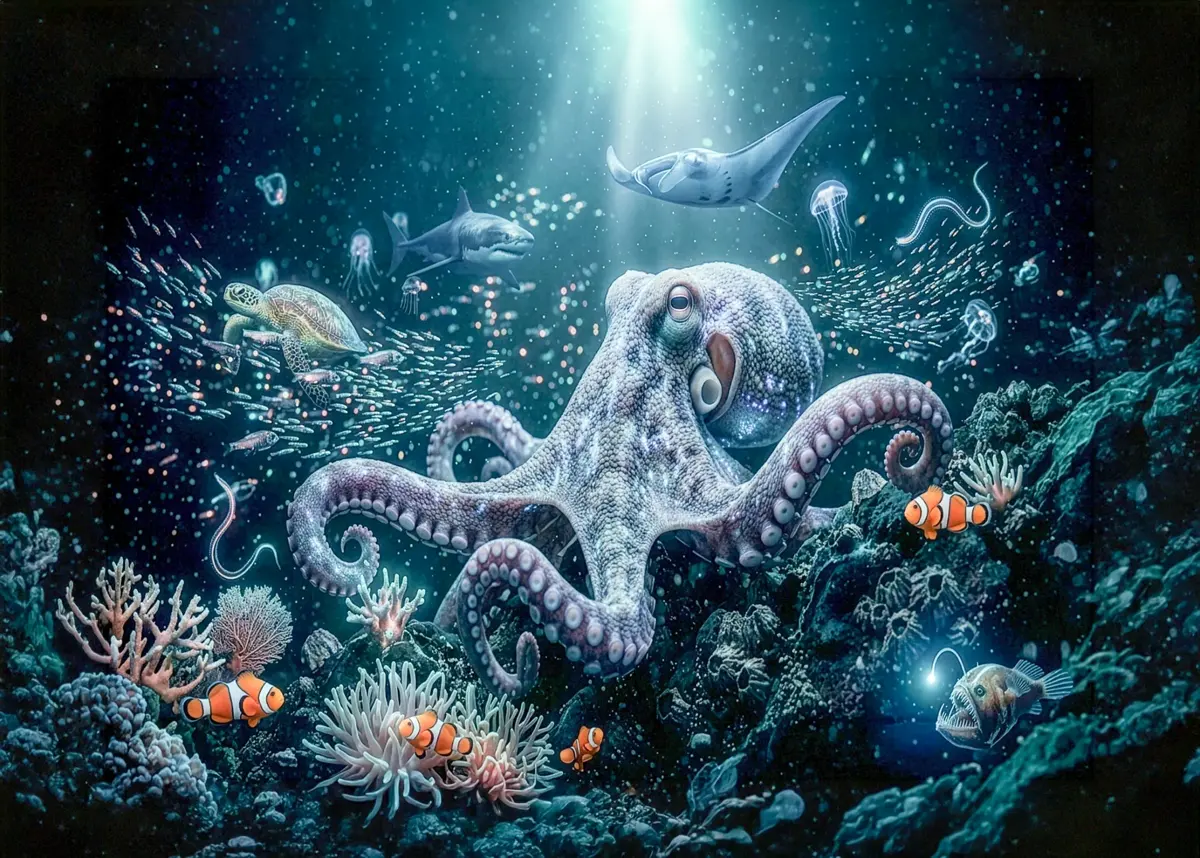
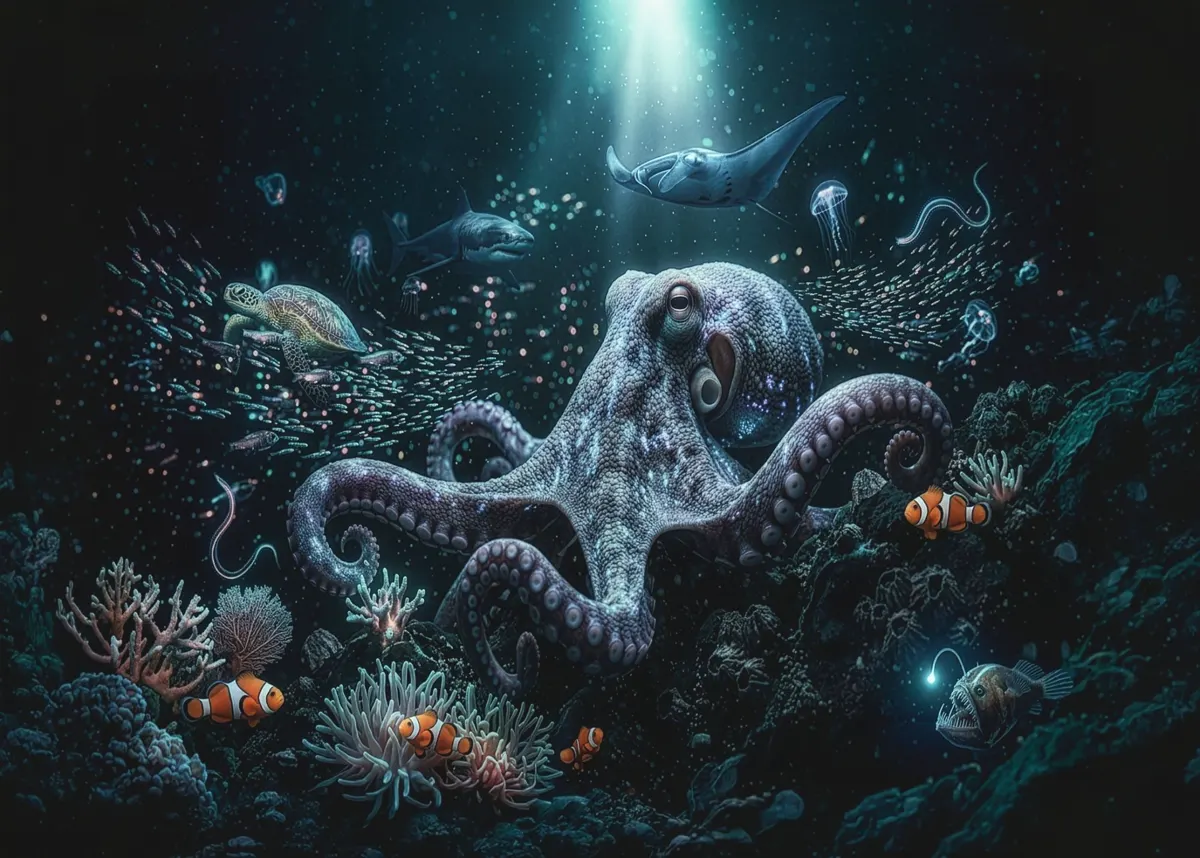
Meg's grade on the reef, and the red octopus gets a band
Two calls Meg made, both hers to make.

**The reef map takes the moodier render.** She sent the same scene at
three brightnesses; what shipped was the brightest at mean luma 75, and
she chose the graded one at 47. I had argued for the bright one on
legibility, since this is the picture four pins point at and darkness eats
the anemones and the anglerfish first. On the built page that concern does
not materialise: the clownfish, the anemone cluster and the angler are all
still clearly readable at this grade, and the picture is better. Her eye,
and it was right.

It is a drop-in. The two renders are pixel aligned, so all four pins were
re-checked against the new file and every one still lands on its creature
with no co-ordinate changed. That was verified rather than assumed, by
overlaying the four positions on the new grade before swapping it in.

**The red octopus gets its own band on /marketplace**, which is the one
picture on this site that is deliberately off-palette. The accents here
are violet, teal and pink, and this render is red and green; that is
exactly why it sat unused. It works on this page because there is no ocean
art on it at all and no teal accent anywhere near the band, so the picture
is its own moment rather than a clash with something beside it. Checked in
both themes: on Harbor it melts into the page, on Daylight the cp-night
island reads it as a framed photograph on cream.

Uncaptioned, which is CastFrame's rule rather than a shortcut: a caption
[…]

diff --git a/app/marketplace/page.tsx b/app/marketplace/page.tsx
@@ -8,6 +8,7 @@ import MarketCatalog from "@/components/MarketCatalog";
 import WorkflowMap from "@/components/WorkflowMap";
 import LinxMark from "@/components/LinxMark";
 import StackedHeading from "@/components/StackedHeading";
+import CastFrame from "@/components/ocean/CastFrame";
 import { marketItems, welcomeBook } from "@/lib/content";
 
 /*
@@ -105,6 +106,38 @@ export default function MarketplacePage() {
                 hosted tool to the site you already have. I set it up either
                 way, so there is nothing for you to wire together.
               </p>
+            </div>
+          </section>
+
+          {/*
+            **A band of Meg's red octopus, and the one picture on this site
+            that is off-palette on purpose.**
+
+            The rest of the ocean here is violet, teal and near-black,
+            which is the `.cp` palette. This render is red and green, and
+            that is why it sat unused: CLAUDE.md is clear that the accents
+            are violet, teal and pink, and dropping a red-and-green picture
+            next to a teal link is how a palette stops meaning anything.
+
+            It works here because this page has no ocean art at all and no
+            teal accent anywhere near the band, so the picture is its own
+            moment rather than a clash with something beside it. It is
+            uncaptioned, which is CastFrame's rule: a caption marks a
+            creature as standing for one of the four services, and this
+            page is not one of them.
+          */}
+          {/* Not `aria-hidden`: the frame carries a real description, and
+              hiding the section would throw it away. Decorative here means
+              it carries no *claim*, not that it is invisible to a reader
+              who cannot see it. Same treatment as the /tools moorings. */}
+          <section className="border-b border-[var(--cp-line)] py-10 md:py-14">
+            <div className="mx-auto max-w-6xl px-6">
+              <CastFrame
+                art="/ocean/reef-ember.webp"
+                artAlt="A red octopus on a reef of red fan coral and green growth, with jellyfish drifting above it."
+                aspect="aspect-[21/9]"
+                sizes="(min-width: 1024px) 1152px, 100vw"
+              />
             </div>
           </section>
 
